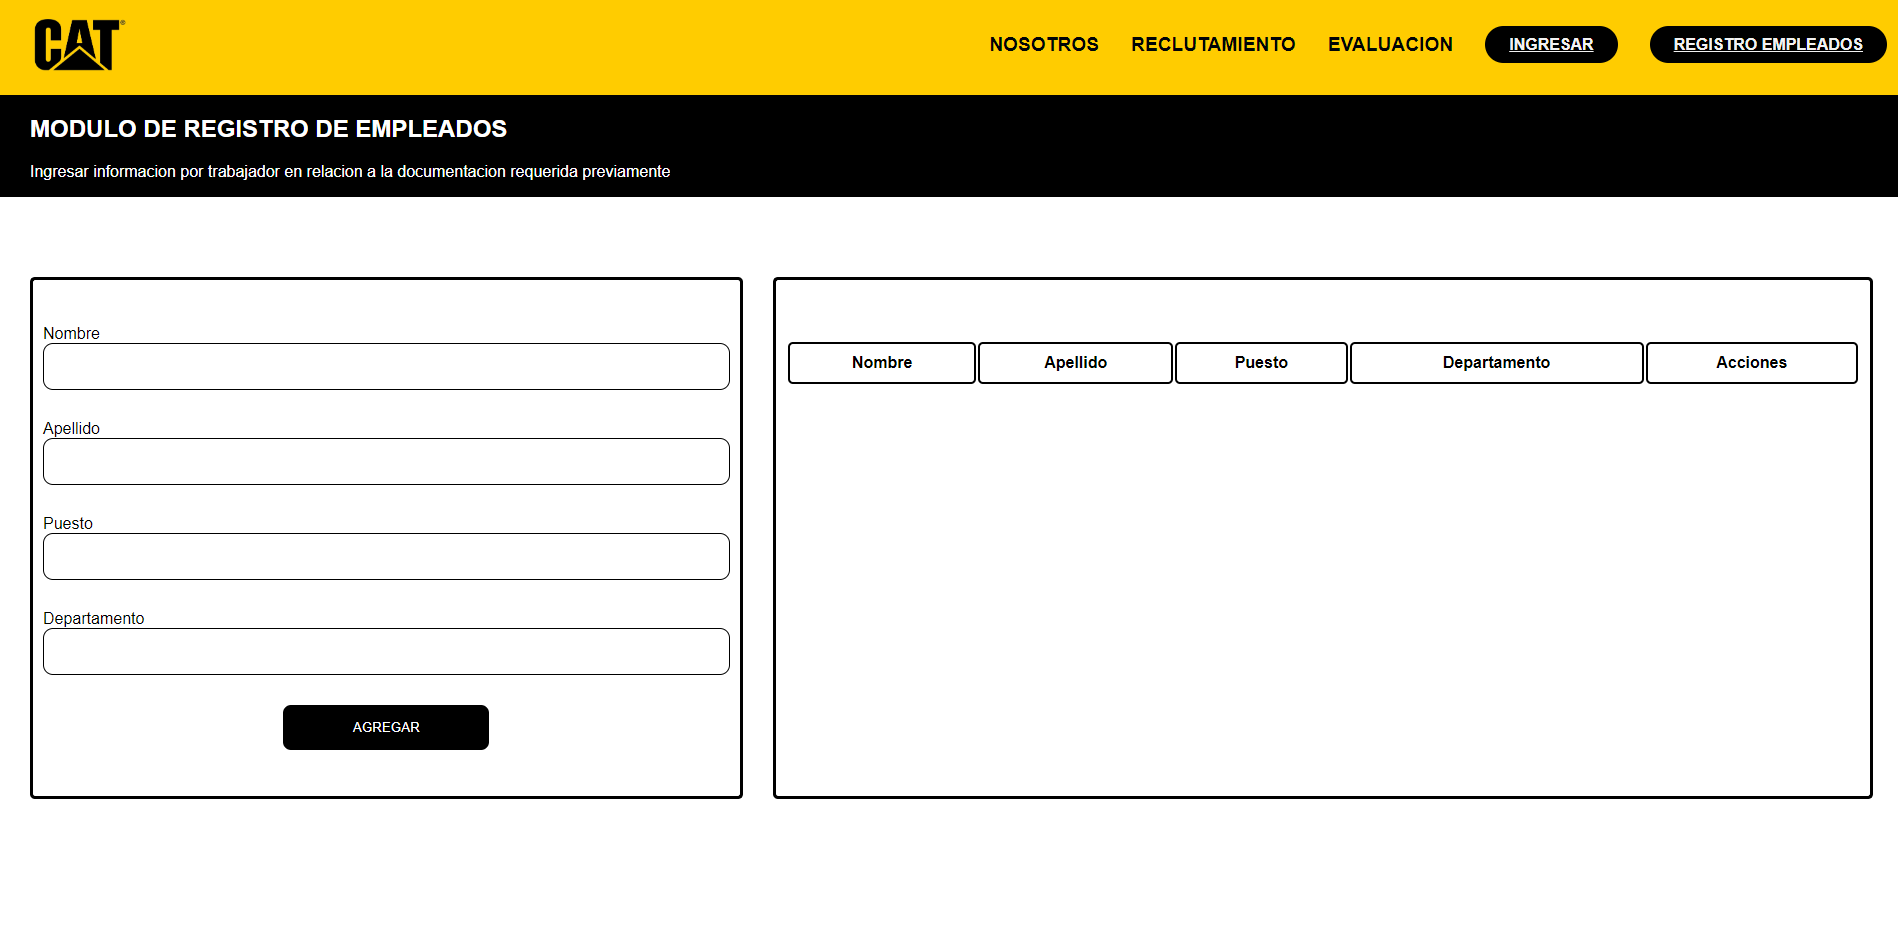
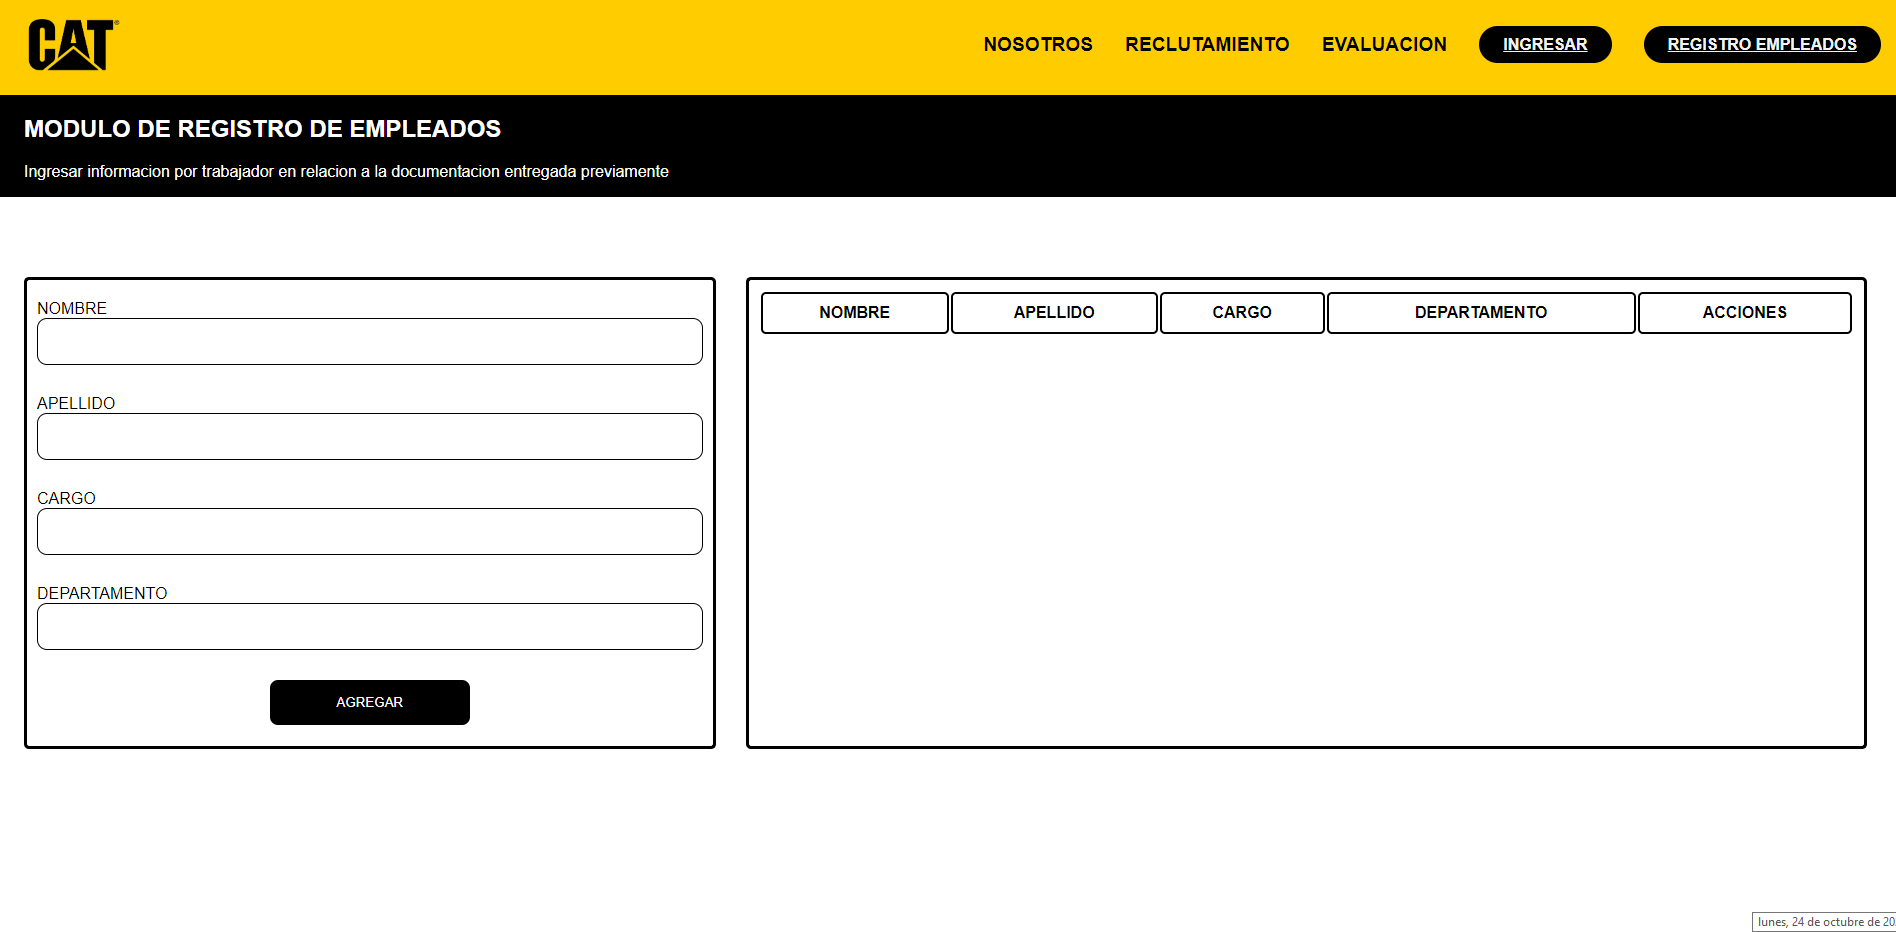
actualizacion README, Index, y CSS

diff --git a/estilos.css b/estilos.css
@@ -130,19 +130,24 @@ table{
 
 .mainTable{
     width: 100%;
+    padding: 0;
         
 }
 
-tr:nth-child(even),table.mainTable thead>tr{
-    background-color: #ffffff;
+/* celdas titulos */
+
+tr:nth-child(even),table.mainTable thead>tr{   /*celda fija*/
+    background-color: white;
     border-color: black;
-    color: #fff;
+    text-transform: uppercase;
+    
     
     
 }
 
 table.mainTable tbody>tr:nth-child(odd){
-    background-color: black;
+    background-color: white;
+    text-transform: uppercase;
 }
 
 th{
@@ -156,8 +161,9 @@ th{
 }
 
 td{
-    color: #FFCC00;
+    color: black;
     padding: 10px;
+    margin-top: 0;
     border-color: #000000;
     border-style: groove;
     border-radius: 5px;
@@ -166,13 +172,14 @@ td{
 
 
 /* imput formulario */
-input[type=text],input[type=number]{
+input[type=text]{
     width: 100%;
     padding: 15px;
     margin-bottom:30px;
     box-sizing: border-box;
     border: 1px solid rgb(0, 0, 0);
     border-radius: 10px;
+    text-transform: uppercase;
 }
 
 /* boton agregar */ 
@@ -194,7 +201,7 @@ input[type=submit]{
 
 
 a{
-    color: rgb(0, 255, 64);
+    color:blue;
     margin-left: 15px;
     text-decoration: underline;
     cursor: pointer;
@@ -328,13 +335,15 @@ footer{
     .header{
         display: flex;
         flex-direction: column;
+        position: relative;
+        width: 100%;
+        
     }
 
 
     table{
         display: flex;
-        padding-top: 50px;
-        margin-bottom: 400px;
+        
     }
 
     .module{
@@ -345,36 +354,67 @@ footer{
         align-items: center;
         position: relative;
         text-align: center;
-    
+        width: 100%;
+            
     }
        
     .main-menu{
         flex-wrap: wrap;
-        justify-content: space-evenly;
         margin-top: 0;
         display: flex;
-        flex-direction: column;      
+        flex-direction: column;  
+
     }
     
     .cta{
         flex-wrap: wrap;
         display: flex;
         flex-direction: column;
+
     }
 
-    table{
-        padding-top: 50px;
-        margin-bottom: 400px;
-        
-    }
-   
+       
     
     td{
-        display: flex;
-        flex-direction: column;
+        display: flex;       
+        font-size: 80%;
     
     }
-      
+
+    th{
+        background-color: #ffffff;
+        
+        
+    }
+    
+    .mainTable{
+        display:grid;
+        grid-row:auto;
+       
+        
+                
+    }
+
+    table.mainTable tbody>tr:nth-child(odd){
+        background-color: rgb(255, 255, 255);
+        width: min-content;
+        display: flex;
+        flex-direction: row;
+        font-size: 55%;
+        
+    }
+
+    tr:nth-child(even),table.mainTable thead>tr{
+        width: min-content;
+        background-color: #ffffff;
+        height: min-content;
+        flex-direction: row;
+        display: flex;
+        padding: 0;
+        font-size: 55%;     
+
+    }
+    
 
    
 
@@ -382,24 +422,26 @@ footer{
     /*footer*/
     
     .footer-container{
-        padding: 2rem;
+        padding: 0;
         flex-direction: column;
+        width: 110%;
+        margin-right: 0;
     }
 
     .footer-content-container{
         width: 100%;
-        padding: 2rem 0;
-        border-bottom: 1px solid #2A2A2A;
+        padding:0;
+        border-bottom: 1px solid #646464;
         justify-content: center;
         align-items: center;
     }
 
     .footer-content-container:nth-of-type(1){
-        align-items: flex-start;
+        align-items:center;
     }
     .footer-content-container:nth-of-type(3){
         border-bottom: none;
-        padding-bottom: 0;
+        padding-bottom: 10px;
     }
 
     

diff --git a/index.html b/index.html
@@ -27,7 +27,7 @@
     <section class="module" >
         <div class="text_div">
             <h2 class="text_title"> MODULO DE REGISTRO DE EMPLEADOS </h2>
-            <p> Ingresar informacion por trabajador en relacion a la documentacion requerida previamente</p>
+            <p> Ingresar informacion por trabajador en relacion a la documentacion entregada previamente</p>
         </div>
     </section>
 
@@ -38,19 +38,19 @@
             <td>
                 <form onsubmit="event.preventDefault();onSubmitForm();">
                     <div>
-                        <label>Nombre</label><label class="classValidate hide" id="labelId" >*Este campo es necesario</label>
+                        <label>NOMBRE</label><label class="classValidate hide" id="labelId" >*Este campo es necesario</label>
                         <input type="text" name="Nombre" id="Nombre">
                     </div>
                     <div>
-                        <label>Apellido</label>
+                        <label>APELLIDO</label>
                         <input type="text" name="Apellido" id="Apellido">
                     </div>
                     <div>
-                        <label>Puesto</label>
+                        <label>CARGO</label>
                         <input type="text" name="Puesto" id="Puesto">
                     </div>
                     <div>
-                        <label>Departamento</label>
+                        <label>DEPARTAMENTO</label>
                         <input type="text" name="Departamento" id="Departamento">
                     </div>
                     <div class="button">
@@ -62,13 +62,13 @@
 <!--Tabla de pintado de datos-->
                 <table class="mainTable" id="employeeList">
                     <thead>
-                        <th>Nombre</th>
-                        <th>Apellido</th>
-                        <th>Puesto</th>
-                        <th>Departamento</th>
-                        <th>Acciones</th>
-                        
+                        <th>NOMBRE</th>
+                        <th>APELLIDO</th>
+                        <th>CARGO</th>
+                        <th>DEPARTAMENTO</th>
+                        <th>ACCIONES</th>                       
                     </thead>
+                    <!--Registro Almacenado-->
                     <tbody id="tbody">
 
                     </tbody>

diff --git a/app.js b/app.js
@@ -119,7 +119,7 @@ function updateAfterPageRefresh(){
                 <td>${Apellido}</td>
                 <td>${Puesto}</td>
                 <td>${Departamento}</td>
-                <td><a onClick=editForm(this)>EDITAR</a><a onClick=deleteRecord(this)>DELETE</a></td>
+                <td><a onClick=editForm(this)>EDITAR</a><a onClick=deleteRecord(this)>BORRAR</a></td>
             </tr>
             `
             
